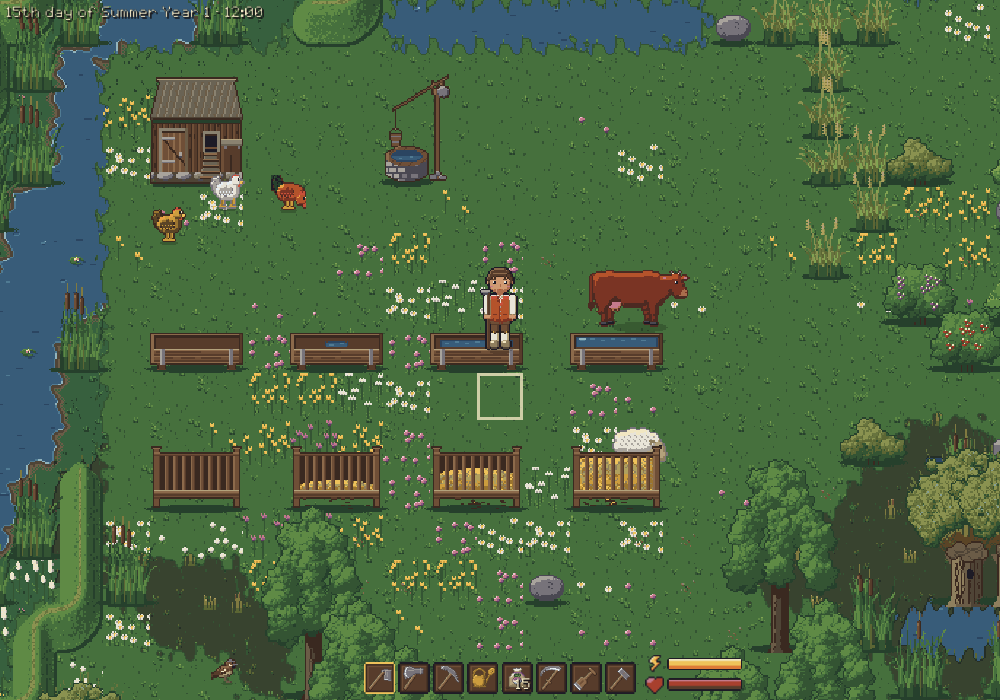
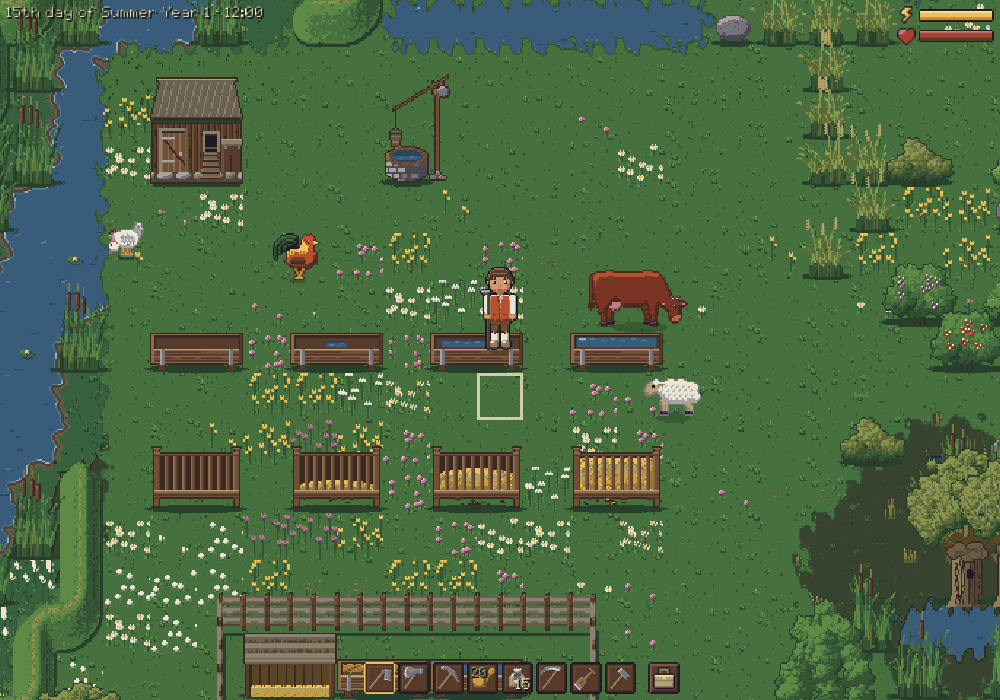
Rooster: redrawn at 32 px, a head taller than his hens
The 32 px rooster was the hen's frame in redder colours. He is now drawn by hand as maps of
letters like the cow and the pig (livestock.rooster_frame), in a 34x32 cell: 27 px from the tail
to the beak and 30 px to the tips of his tail, an upright stance on long legs with a spur, a
tall arch of black-green sickles over golden saddle hackles, a cape of golden hackles, a big red
comb, long wattles and a red face, a dark green wing bar. Same frames as the hens: stand and
blink, walk, peck, asleep sitting with his head drawn in.

The game reads the new cell size (WildlifeSprites.ROOSTER); the classic rooster keeps his drawing
and is set in the larger cell (scaling.GROWN_CELLS). A heart or the anger mark rises over his
head at its own height (FarmAnimalView.LOOK_HEADS). The farm yard README picture is retaken.

diff --git a/tools/art/livestock.py b/tools/art/livestock.py
@@ -10,9 +10,9 @@ docs/art-style.md, "Props and animals").
 The animals are drawn in the style of the people (character.py): rounded forms (forms.py)
 shaded by the light from the top left, faces with an eye and its glint, and the outline in the
 darkest colour of the coat. The sheep, dogs, cats and horses share one way of putting a frame
-together (`quadruped_frame`); the cow and the pig are drawn by hand as maps of letters, laid over
-each other for a pose (`cow_frame`, `pig_frame`); the hen and the rabbit are drawn whole for each
-pose.
+together (`quadruped_frame`); the cow, the pig and the rooster are drawn by hand as maps of
+letters, laid over each other for a pose (`cow_frame`, `pig_frame`, `rooster_frame`); the hen and
+the rabbit are drawn whole for each pose.
 """
 
 import math
@@ -1096,8 +1096,7 @@ def sheep_sheet(look):
 # A hen drawn a little larger than life, 22 px from the tail to the beak: a plump body with the
 # breast forward, the tail raised behind, a folded wing in rows of feathers, a red comb and
 # wattle, an eye with a glint and yellow legs with spread toes. She is drawn whole for each
-# frame: her head and body move for a pose (`hen_frame`). The rooster has a bigger comb, golden
-# hackles and dark sickle feathers in his tail.
+# frame: her head and body move for a pose (`hen_frame`). The rooster is drawn after her.
 
 CHICKEN_SIZE = (24, 24)
 CHICKEN_GROUND = 22
@@ -1121,16 +1120,6 @@ CHICKEN_LOOKS = {
         "tail": ("stone", "stone_light", "lime"),
         "scallop": "snow_light",
         "outline": "stone",
-    },
-    # The rooster: red-brown, golden hackles, a dark tail of sickle feathers and a big comb.
-    "rooster": {
-        "plumage": ("rust_dark", "rust", "rust", "leaf_orange"),
-        "wing": ("russet_deep", "rust_dark", "rust"),
-        "tail": ("ink", "green_deep", "green_dark"),
-        "scallop": "red_light",
-        "hackle": ("ochre_dark", "ochre", "gold"),
-        "sickles": True,
-        "outline": "russet_deep",
     },
 }
 
@@ -1161,28 +1150,20 @@ def hen_frame(look, head="up", steps=(0, 0, 0, 0), eye_shut=False):
     tail = moved([(2, 3), (5, 2), (8, 8), (8, 14), (3, 13), (1, 7)], 0, drop - tip)
     forms.shade(picture, forms.polygon(width, height, tail), style["tail"], 2)
     forms.dots(picture, rounded(moved([(3, 5), (4, 7), (4, 9), (5, 11)], 0, drop - tip)), style["tail"][0])
-    if style.get("sickles"):
-        sickles = forms.limb(width, height, moved([(6, 6), (2, 1), (0, 6), (1, 12)], 0, drop - tip), [1.2, 1.0, 0.8, 0.6])
-        forms.shade(picture, sickles, style["tail"], 1)
     body = forms.ellipse(width, height, 12, 12 + drop, 8, 6.5) | forms.ellipse(width, height, 15 + tip, 10 + drop + tip, 5.5, 5)
     neck = forms.capsule(width, height, (15 + tip, 9 + drop + tip), (hx - 1, hy + 1), 2.8, 2.4)
     forms.shade(picture, body | neck, style["plumage"], 4)
-    if "hackle" in style:
-        forms.shade(picture, neck & ~body, style["hackle"], 1)
     wing = forms.ellipse(width, height, 11, 12 + drop, 5.2, 3.6)
     forms.shade(picture, wing, style["wing"], 2)
     for y in (12, 14, 16):
         forms.dots(picture, [(x, y + drop) for x in range(7 + (y // 2) % 2, 16, 2) if wing[y + drop, x]], style["scallop"])
     forms.shade(picture, forms.ellipse(width, height, hx, hy, 3.4, 3.4), style["plumage"], 2)
     # The comb on the crown, the beak, the wattle under it and the eye.
-    big = style.get("sickles", False)
     comb = [(hx - 2, hy - 4), (hx - 1, hy - 4), (hx, hy - 4), (hx - 1, hy - 5), (hx + 1, hy - 4), (hx - 3, hy - 3)]
-    if big:
-        comb += [(hx - 2, hy - 5), (hx, hy - 5), (hx + 1, hy - 5), (hx - 1, hy - 6), (hx + 1, hy - 6)]
     forms.dots(picture, comb, "red_light")
     forms.dots(picture, [(hx + 3, hy), (hx + 4, hy), (hx + 3, hy + 1)], "gold")
     forms.dots(picture, [(hx + 4, hy + 1)], "ochre_dark")
-    wattle = [(hx + 2, hy + 2), (hx + 2, hy + 3), (hx + 1, hy + 3)] + ([(hx + 1, hy + 4), (hx + 2, hy + 4)] if big else [])
+    wattle = [(hx + 2, hy + 2), (hx + 2, hy + 3), (hx + 1, hy + 3)]
     forms.dots(picture, wattle, "red_light")
     if eye_shut:
         forms.dots(picture, [(hx + 1, hy - 1)], style["plumage"][0])
@@ -1199,6 +1180,209 @@ def chicken_sheet(look):
         "walk": walk,
         "graze": [hen_frame(look, head="peck"), hen_frame(look, head="peck_up")],
         "sleep": [hen_frame(look, head="tucked", steps=None, eye_shut=True), hen_frame(look, head="sunk", steps=None, eye_shut=True)],
+        "run": walk,
+    }
+    return [frames[action] for action in ACTIONS]
+
+
+# --- The rooster ---------------------------------------------------------------------------
+#
+# The rooster of a flock, a head taller than his hens and drawn by hand as maps of letters like
+# the cow (see COW_TORSO): 27 px from the tail to the beak and 30 px from the toes to the tips of
+# his tail, which rises behind him in a tall arch of sickle feathers and hangs down at its end. He
+# stands upright on long yellow legs with a spur, his breast forward, with a big red comb, long
+# wattles and a red face, a cape of golden hackles over his shoulders and golden saddle hackles
+# over the root of his tail, a red-brown back and a dark green bar across his wing. The pieces
+# (`ROOSTER_TAIL`, `ROOSTER_BODY`, the neck and head of each pose in `ROOSTER_HEADS`) are laid
+# over the legs (`rooster_legs`); he has the hen's frames: pecking, his body tips forward and his
+# tail rises, asleep he sits on his legs with his head drawn in.
+#
+# The letters: t the tail, s and S the sickles and their glossy upper edge; b the plumage, d its
+# dark underside, w the wing, W its bar, h and H the hackles and their dark streaks; c the comb,
+# C its shade (and a shut eye), f the face, r the wattles, e the eye and g its glint, k the beak
+# and K its lower half; L and l the near leg and its shade, F the far leg, p the spur.
+
+ROOSTER_SIZE = (34, 32)
+ROOSTER_GROUND = 30
+ROOSTER_TAIL = ((1, 1), (
+    "........SSSSSS",
+    ".....SSSssssssSS",
+    "....SSssttttttss",
+    "...SssttSSSSSStt",
+    "..SsstSSssssssSS",
+    ".SsstSSssttttsst",
+    ".SstSssttSSSSttt",
+    "SsttSstSSsssttt",
+    "SstSstSSsttttttt",
+    "SstSstSstttttttt",
+    "SstSstSstttttttt",
+    "SstSs...tttttttt",
+    "SstSs....ttttttt",
+    "Sst......ttttttt",
+    "Ss.......ttttttt",
+    "Ss.......ttttttt",
+    ".S",
+))
+ROOSTER_BODY = ((9, 11), (
+    "...hhhbbbbbbbbbbb",
+    ".hHhHhbbbbbbbbbbbbb",
+    ".hHhHhbbbbbbbbbbbbbbb",
+    ".HhHhbbbbbbbbbbbbbbbb",
+    ".hHbbbbbbbbbbbbbbbbbb",
+    ".bbbbwwwwwwwbbbbbbbbb",
+    ".bbbwwwwwwwwwbbbbbbbd",
+    "bbbwwwwwwwwwwwbbbbbdd",
+    "bbbWWWWWWWWWWwbbbbbdd",
+    ".bbbWWWWWWWWWbbbbddd",
+    "..bbbbbbbbbbbbbbbdd",
+    "...ddbbbbbbbbbbddd",
+    ".....ddddddddddd",
+))
+# The neck and head: standing, pecking at the ground and coming up from it, and drawn in asleep.
+ROOSTER_HEADS = {
+    "up": ((17, 1), (
+        ".....c.c.c",
+        "....ccccccc",
+        "....cccccccc",
+        "...hCCfffff",
+        "...hffegfffkk",
+        "...hhffefffkkk",
+        "...hhhfffrKK",
+        "..hhhhhfrrr",
+        "..hhhhhhrrr",
+        ".hhhhhhbrrC",
+        "hhhhhhhbbrr",
+        "hhHhHhhbbbC",
+        ".hHhHh",
+        "..H.H",
+    )),
+    "peck": ((17, 10), (
+        "hhh",
+        "hhhhh",
+        "hhhhhhh",
+        "hHhHhhhh",
+        ".HhHhhhhh",
+        "..H.Hhhhhh",
+        "......hhhhh",
+        ".......hhhhh",
+        "........hhhh",
+        "........hhhhc",
+        "........Hhhccc",
+        ".........hfccc",
+        ".........fffcc",
+        "........rfegfc",
+        "........rffefc",
+        "........rrffk",
+        ".........r.kk",
+        "...........kK",
+    )),
+    "peck_up": ((17, 8), (
+        "hhh",
+        "hhhhh",
+        "hhhhhhh",
+        "hHhhhhhhh.c.c",
+        ".hHhHhhhhcccccc",
+        "..HhHhhhhffffcc",
+        "....hhhhfegffkk",
+        ".....hhhffeffkkk",
+        "......hhhfrrKK",
+        ".......hhrrr",
+        "........brr",
+    )),
+    "tucked": ((17, 9), (
+        "......c.c.c",
+        ".....cccccc",
+        "....hCCffffk",
+        "...hhfCCfffkk",
+        "..hhhhfffrKK",
+        ".hhhhhhhrrr",
+        "hhhhhhhhrrr",
+        "hHhHhhhhhhh",
+        ".HhHhHhhhh",
+        "..H.H.H",
+    )),
+}
+# Breathing out asleep, his head sinks a little.
+ROOSTER_HEADS["sunk"] = ((17, 10), ROOSTER_HEADS["tucked"][1])
+# Asleep, he sits this much lower, his belly on the ground.
+ROOSTER_SITTING_DROP = 6
+
+
+def rooster_legs(letters, steps):
+    """Lays the legs into `letters` in a step of CHICKEN_STEPS (the near foot then the far one):
+    a shank from the thigh down to the toes, leaning to the foot, the near one with its spur."""
+    for x, (ahead, lift), near in ((15, steps[2:], False), (20, steps[:2], True)):
+        foot = ROOSTER_GROUND - lift
+        shank = range(24, foot)
+        for index, y in enumerate(shank):
+            lean = round(ahead * index / max(1, len(shank) - 1))
+            letters[y, x + lean] = "L" if near else "F"
+            letters[y, x + lean + 1] = "l" if near else "F"
+        if near:
+            letters[foot - 2, x - 1 + ahead] = "p"
+        letters[foot, x + ahead - 2 : x + ahead + 3] = "L" if near else "F"
+
+
+def rooster_frame(head="up", steps=(0, 0, 0, 0), eye_shut=False):
+    """One frame of the rooster facing right: his neck and head in ROOSTER_HEADS[head], his legs
+    in `steps` (None: he sits on them), his eye open or shut."""
+    width, height = ROOSTER_SIZE
+    letters = np.full((height, width), ".")
+    sitting = steps is None
+    drop = ROOSTER_SITTING_DROP if sitting else 0
+    tip = 1 if head.startswith("peck") else 0
+    if not sitting:
+        rooster_legs(letters, steps)
+    place_piece(letters, ROOSTER_TAIL, drop - 1 if sitting else 0)
+    place_piece(letters, ROOSTER_BODY, drop + tip)
+    place_piece(letters, ROOSTER_HEADS[head], drop)
+    if eye_shut:
+        letters[letters == "g"] = "f"
+        letters[letters == "e"] = "C"
+    picture = blank(width, height)
+
+    def mask(keys):
+        return np.isin(letters, list(keys))
+
+    level = forms.light_level(mask("bdwWhH"), 4, TOP_LIGHT)
+    forms.shade_by_level(picture, mask("b"), ("rust_dark", "rust", "rust", "leaf_orange"), level)
+    forms.shade_by_level(picture, mask("d"), ("russet_deep", "rust_dark", "rust_dark", "rust"), level)
+    forms.shade_by_level(picture, mask("w"), ("russet_deep", "rust_dark", "rust", "rust"), level)
+    forms.shade_by_level(picture, mask("W"), ("ink", "green_deep", "green_deep", "green_dark"), level)
+    forms.shade_by_level(picture, mask("h"), ("ochre_dark", "ochre", "gold", "gold"), level + 0.2)
+    tail_level = forms.light_level(mask("tsS"), 3, 0.3)
+    forms.shade_by_level(picture, mask("t"), ("ink", "ink", "green_deep"), tail_level)
+    forms.shade_by_level(picture, mask("s"), ("green_deep", "green_deep", "green_dark"), tail_level)
+    forms.shade_by_level(picture, mask("S"), ("green_dark", "green_dark", "green"), tail_level)
+    colours = {
+        "H": "ochre_dark",
+        "c": "red_light",
+        "C": "ember",
+        "f": "red_light",
+        "r": "red_light",
+        "e": "ink",
+        "g": "cream",
+        "k": "gold",
+        "K": "ochre_dark",
+        "L": "ochre",
+        "l": "ochre_dark",
+        "F": "ochre_dark",
+        "p": "ochre_dark",
+    }
+    for key, colour in colours.items():
+        forms.paint(picture, mask(key), colour)
+    # The outline is the plumage's darkest colour, ink round the dark tail.
+    tail = {"ink", "green_deep", "green_dark", "green"}
+    return outline(picture, lambda colour: "ink" if colour in tail else "russet_deep")
+
+
+def rooster_sheet():
+    walk = [rooster_frame(steps=steps) for steps in CHICKEN_STEPS]
+    frames = {
+        "idle": [rooster_frame(), rooster_frame(eye_shut=True)],
+        "walk": walk,
+        "graze": [rooster_frame(head="peck"), rooster_frame(head="peck_up")],
+        "sleep": [rooster_frame(head="tucked", steps=None, eye_shut=True), rooster_frame(head="sunk", steps=None, eye_shut=True)],
         "run": walk,
     }
     return [frames[action] for action in ACTIONS]
@@ -2025,6 +2209,8 @@ def sheets():
     for species, (size, looks, sheet) in SPECIES.items():
         for look in looks:
             yield f"{species}_{look}", size, sheet(look)
+        if species == "chicken":
+            yield "chicken_rooster", ROOSTER_SIZE, rooster_sheet()
     for look in HORSE_LOOKS:
         yield f"horse_{look}_saddled", HORSE_SIZE, horse_sheet(look, "on")
         behind, in_front = ridden_sheets(look)

diff --git a/tools/art/classic/scaling.py b/tools/art/classic/scaling.py
@@ -91,6 +91,8 @@ DOUBLED = (
 GROWN_CELLS = {
     "wildlife/cow_*.png": ((64, 48), (72, 54)),
     "wildlife/horse_*.png": ((88, 72), (88, 76)),
+    # The rooster, a head taller than his hens at 32 px (livestock.ROOSTER_SIZE).
+    "wildlife/chicken_rooster.png": ((24, 24), (34, 32)),
     # The small wild animals drawn larger than life at 32 px.
     "wildlife/bird.png": ((16, 16), (22, 18)),
     "wildlife/rabbit.png": ((24, 20), (26, 22)),

diff --git a/design/farming/livestock.md b/design/farming/livestock.md
@@ -81,7 +81,8 @@ console (`spawn cow 3`, near the player). Unlike the wildlife they are state and
   pig about 40 px long and 23 px tall, a dog about 40 px long, a horse about 88 px long (nearly three tiles) and 57 px to the
   withers, its back free of the neck and head for a saddle and a rider, the pony four fifths
   of it; the hen (about 22 px), the cat (about 28 px) and the rabbit (about 20 px) are drawn a
-  little larger than life. They are rounded forms shaded from the top left like the people,
+  little larger than life. The rooster (task 204) is a head taller than his hens: a 34x32 cell,
+  about 27 px from the beak to the tail and 30 px to the tips of his tail. They are rounded forms shaded from the top left like the people,
   with legs through their joints, an eye with a glint, and the outline in the darkest colour
   of the coat; each stands on a contact shadow. (Was 16 px art: a cow 22 px long, a horse 32.)
 - **Riding** (decided 2026-11-06, task 81): the saddle is an item (from the console for now).
@@ -175,13 +176,16 @@ data/livestock.cfg.
   rises from over the animal's head for 1.6 s, drifting up 14 px and fading (`PetReaction`, made
   by the `FarmAnimalView` when `Livestock` tells `petted`). It stands 2 px above the top of the
   head, which is measured on each species' sheets for standing, grazing (head down) and asleep
-  (`FarmAnimalView.HEADS`), so it sits low over a lying cow and high over a standing horse.
+  (`FarmAnimalView.HEADS`), so it sits low over a lying cow and high over a standing horse. A look
+  drawn in a sheet of its own size has its own heights (`FarmAnimalView.LOOK_HEADS`): the rooster,
+  whose mark rises over his comb, higher than over his hens.
 - **Zzz (task 211):** a sleeping animal that is on screen shows the player's "z"s (`SleepZs`,
   effects/sleep_z.png, in both arts) rising over its head now and then: after a random gap of 6 to
   20 s, for 3 to 5 s, over and over (`[zs]` in data/livestock.cfg; the first gap counts from
   falling asleep). They start where the heart does (`HEADS`, asleep) and rise as far as its
   species' `ZS_RISES`: 14 px for the chicken, rabbit and cat, 20 to 22 for the pig, sheep and dog,
-  28 for the cow and 32 for the horse. `ZS_RISES`, like `HEADS`, is art geometry and is kept in
+  28 for the cow and 32 for the horse; the rooster's start over his own head (`LOOK_HEADS`) and
+  rise 18 px (`LOOK_ZS_RISES`). `ZS_RISES`, like `HEADS`, is art geometry and is kept in
   code, not in data/. They end when the animal wakes or is petted (the anger mark wins).
   The cost is a timer in each sleeping `FarmAnimalView` whose animal is inside the camera's view
   (the `SleepZs` node and the dice are made when it first does); an animal outside it, though its

diff --git a/docs/art-style.md b/docs/art-style.md
@@ -852,8 +852,15 @@ copper watering can. Kept here as the record of why.
    the horse 88 px long and 57 px to the withers (88×76 cell), the pony four fifths of it, the
    cow 64 px long and 35 px to the withers (72×54), the pig 40 px long and 23 px tall (52×32),
    the sheep 22 px (44×32), the dog 48×36; the hen (24×24), the cat (32×24) and the rabbit
-   (24×20) a little larger than life. The outline is the darkest colour of the coat (ink for the
-   black and dark ones) and goes round the legs too; every animal stands on a contact shadow. The saddle
+   (24×20) a little larger than life. The rooster (34×32, task 204) is a head taller than his
+   hens: 27 px from the tail to the beak and 30 px to the tips of his tail, an arch of black-green
+   sickles (`ink`, `green_deep`, `green_dark`, their upper edges `green`, outlined in `ink`) over
+   golden saddle hackles, a cape of golden hackles (`ochre`, `gold`), a red-brown body (`rust`)
+   with a dark green wing bar, a big red comb, long wattles and a red face (`red_light`, `ember`),
+   and long legs with a spur; he is drawn by hand as maps of letters like the cow and the pig.
+   The classic rooster is drawn as before, the size of a classic hen; the game sets his sheet in
+   the 34×32 cells. The outline is the darkest colour of the coat (ink for the black and dark
+   ones) and goes round the legs too; every animal stands on a contact shadow. The saddle
    sits on a blue wool cloth (`water_deep`, `water`), so that the rider's brown breeches don't
    merge with a bay. From the front and behind the ridden horse is 28 px wide. Readable on
    summer grass, snow, at dusk and at night (checked in screenshots). No new colours.
